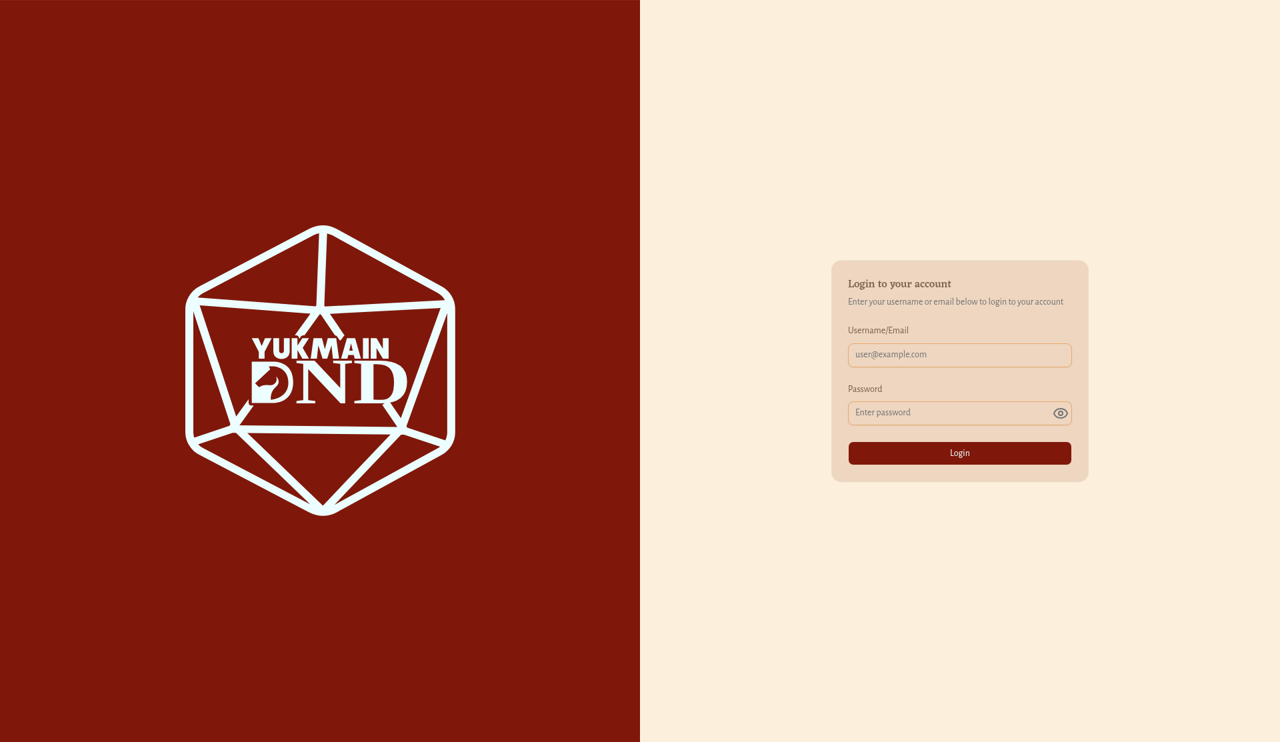
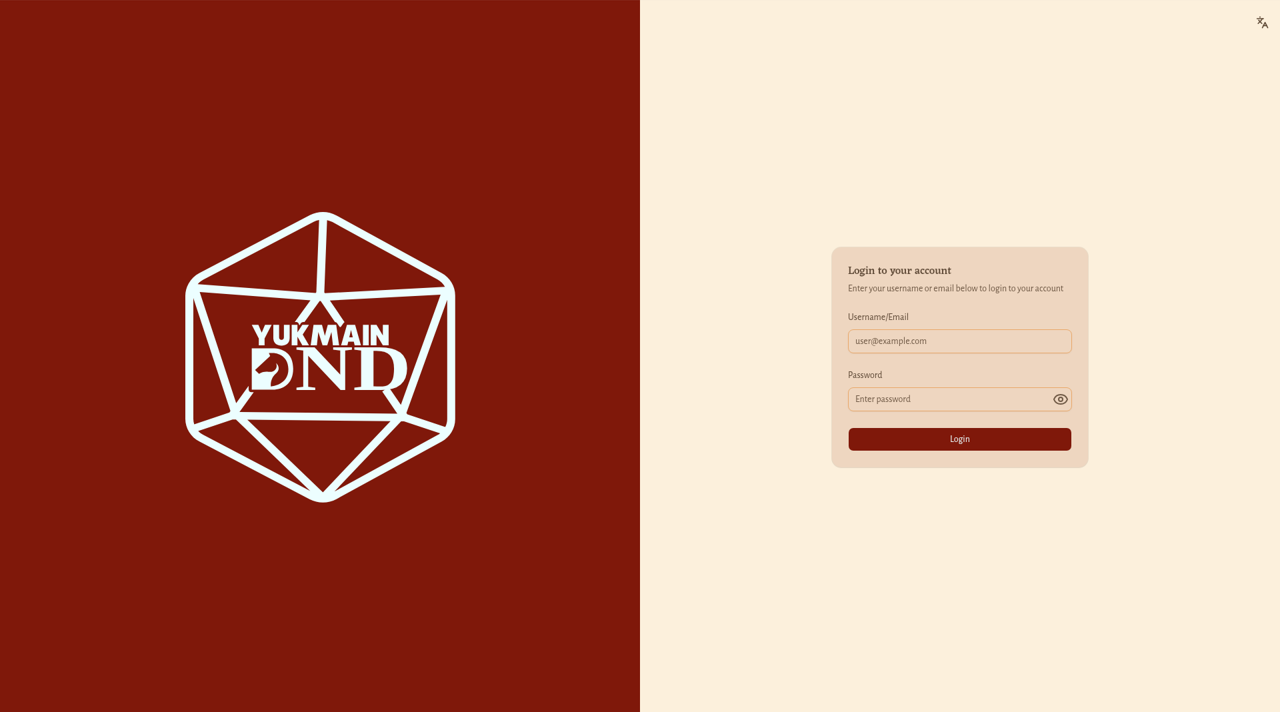
Retake top bar and login screenshots with language switcher

diff --git a/docs/getting-started.md b/docs/getting-started.md
@@ -14,7 +14,7 @@ Halaman ini membantumu masuk ke akun, keluar lagi, dan mengenal cara berpindah h
 4. Isi **Password** (kolomnya bertuliskan **Enter password**). Klik ikon mata di ujung kolom untuk menampilkan atau menyembunyikan sandi yang kamu ketik.
 5. Klik **Login**.
 
-![Halaman masuk dengan kolom Username/Email, Password, dan tombol Login](images/mulai-login-1.png)
+![Halaman masuk dengan kolom Username/Email, Password, tombol Login, dan ikon bahasa di pojok kanan atas](images/mulai-login-1.png)
 
 | Kolom | Wajib | Aturan |
 | --- | --- | --- |
@@ -66,7 +66,7 @@ Di setiap halaman publik ada bilah atas berisi:
 
 Di layar kecil (ponsel), menu ini disimpan di balik ikon tiga garis. Ketuk ikon itu untuk membuka panel **Menu**.
 
-![Bilah atas berisi logo YukMainDnD, menu Guildmates, Stories, Events, Goods, dan tombol Log in](images/mulai-navigasi-1.png)
+![Bilah atas berisi logo YukMainDnD, menu Guildmates, Stories, Events, Goods, ikon bahasa, dan tombol Log in](images/mulai-navigasi-1.png)
 
 Di bagian paling bawah setiap halaman publik ada catatan kecil **© 2026 YukMainDnD · Crafted by Yonaka**. Nama **Yonaka** adalah tautan yang terbuka di tab baru.
 
